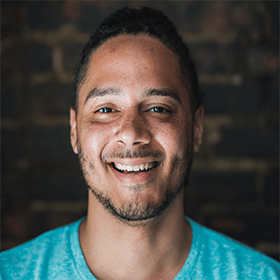
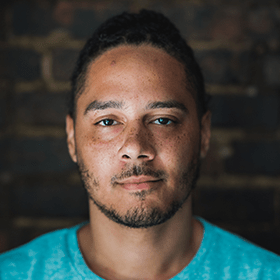
Fixing headshots

diff --git a/source/index.html b/source/index.html
@@ -436,7 +436,7 @@
                     </li>
                     <li class="col-md-4 center">
                         <div class="item">
-                            <img class="img-circle" src="assets/images/pages/about/team03.jpg" alt="Dacious">
+                            <img class="img-circle" src="assets/images/dacious_headshot_min.png" alt="Dacious">
                             <!-- <div class="about-overlay img-circle">
                                 <div class="social-icons sicon-white">
                                     <a href="https://www.facebook.com/TRUcolorsbrewing/" class="sicon-facebook" target="_blank"><i>Facebook</i></a>
@@ -476,7 +476,7 @@
                     </li>
                     <li class="col-md-4 center">
                         <div class="item">
-                            <img class="img-circle" src="assets/images/pages/about/team04.jpg" alt="Erik">
+                            <img class="img-circle" src="assets/images/erik_headshot_min.png" alt="Erik">
                             <!-- <div class="about-overlay img-circle">
                                 <div class="social-icons sicon-white">
                                     <a href="https://www.facebook.com/TRUcolorsbrewing/" class="sicon-facebook" target="_blank"><i>Facebook</i></a>
@@ -496,7 +496,7 @@
                     </li>
                     <li class="col-md-4 center">
                          <div class="item">
-                            <img class="img-circle" src="assets/images/pages/about/team05.jpg" alt="Johnnathun">
+                            <img class="img-circle" src="assets/images/johnnathun_headshot_min.png" alt="Johnnathun">
                             <!-- <div class="about-overlay img-circle">
                                 <div class="social-icons sicon-white">
                                     <a href="https://www.facebook.com/TRUcolorsbrewing/" class="sicon-facebook" target="_blank"><i>Facebook</i></a>
@@ -596,7 +596,7 @@
                     </li>
                     <li class="col-md-4 center">
                          <div class="item">
-                            <img class="img-circle" src="assets/images/pages/about/team06.jpg" alt="Xavier">
+                            <img class="img-circle" src="assets/images/xavier_headshot_min.png" alt="Xavier">
                             <!-- <div class="about-overlay img-circle">
                                 <div class="social-icons sicon-white">
                                     <a href="https://www.facebook.com/TRUcolorsbrewing/" class="sicon-facebook" target="_blank"><i>Facebook</i></a>
